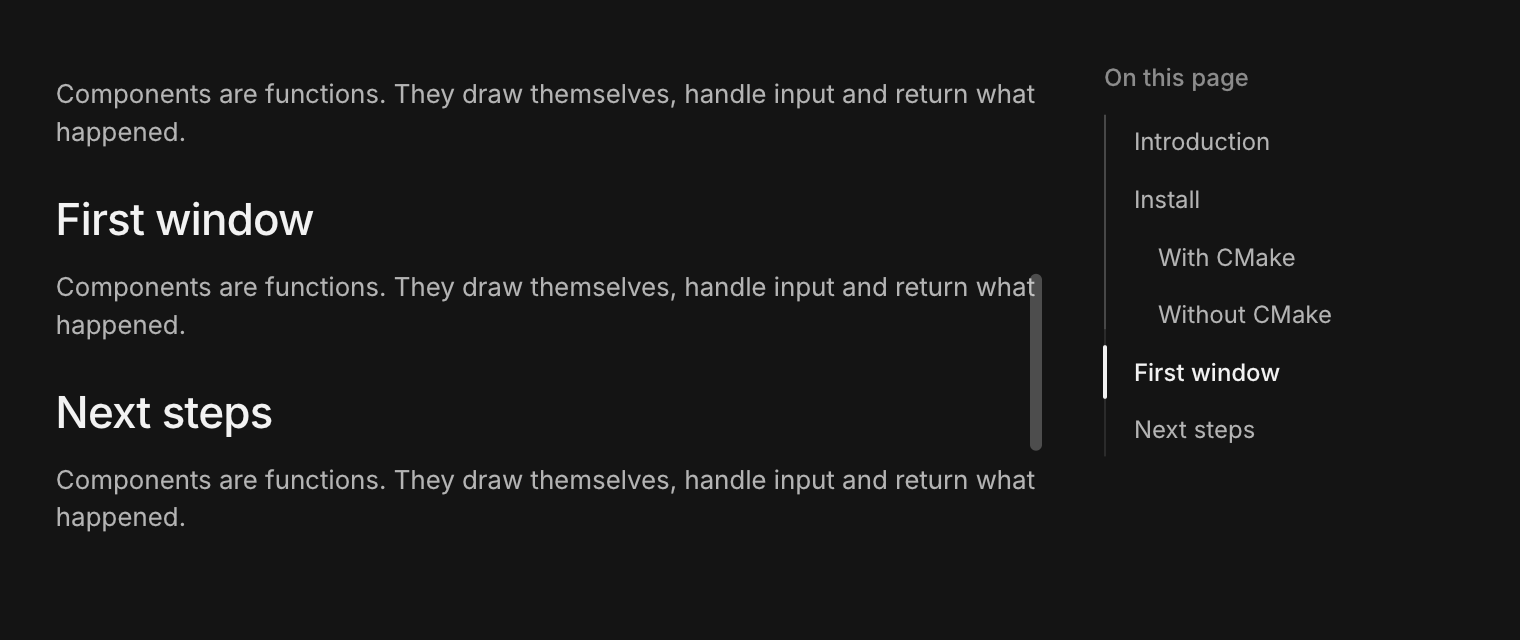
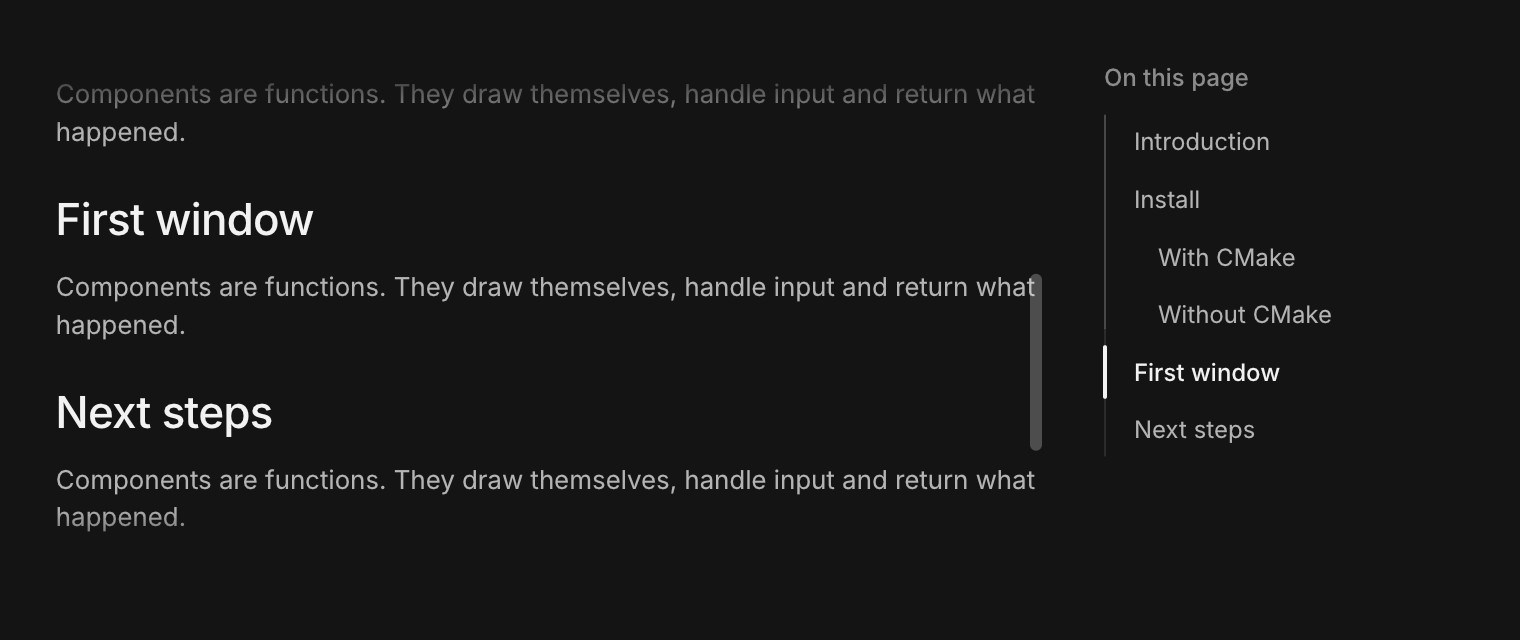
Scroll areas can fade their content out at the edges
.fade_edges on cui_scroll fades content into the backdrop at an edge with
more to scroll; the reader page and the table of contents shot use it.

Changed region(s): [[0.0309, 0.125, 0.6803, 0.1562], [0.0618, 0.8125, 0.0928, 0.8438]]

diff --git a/tests/test_main.c b/tests/test_main.c
@@ -1345,6 +1345,35 @@ static void test_atlas_pressure(void) {
     cui_destroy(ui);
 }
 
+/* scroll edge fades ------------------------------------------------------ */
+
+typedef struct { bool fade; int rows; } fade_ctx;
+static void build_fade(cui_ctx *ui, void *u) {
+    fade_ctx *f = u;
+    cui_scroll(ui, .id = "f", .height = CUI_PX(120), .width = CUI_PX(200), .fade_edges = f->fade) {
+        for (int i = 0; i < f->rows; i++) { cui_push_id_int(ui, i); cui_text(ui, "Row"); cui_pop_id(ui); }
+    }
+}
+
+static void test_scroll_fade(void) {
+    printf("scroll: edge fades only where there is more to scroll\n");
+    cui_ctx *ui = new_ctx();
+    fade_ctx f = { false, 30 };
+    run(ui, build_fade, &f, 3);
+    int plain = cui_get_draw_data(ui)->vertex_count;
+    f.fade = true;
+    run(ui, build_fade, &f, 3);
+    int faded = cui_get_draw_data(ui)->vertex_count;
+    CHECK(faded > plain);              /* a bottom fade, none at the top yet */
+    f.rows = 2;
+    run(ui, build_fade, &f, 3);
+    int short_fade = cui_get_draw_data(ui)->vertex_count;
+    f.fade = false;
+    run(ui, build_fade, &f, 3);
+    CHECK(cui_get_draw_data(ui)->vertex_count == short_fade);   /* nothing to scroll, nothing drawn */
+    cui_destroy(ui);
+}
+
 /* stress ---------------------------------------------------------------- */
 
 typedef struct { int n; } stress_ctx;
@@ -2038,6 +2067,7 @@ int main(void) {
     test_virtual_list();
     test_theme();
     test_renderer();
+    test_scroll_fade();
     test_stress();
     test_atlas_pressure();
     cui_sw_destroy(g_sw);

diff --git a/src/cui_widgets.c b/src/cui_widgets.c
@@ -1037,6 +1037,15 @@ void cui__paint_scrollbars(cui_ctx *ui, cui_node *n, cui_rect clip) {
     cui_scroll_state *st = cui_state(ui, n->id, sizeof *st);
     cui_rect r = n->rect;
     float max_y = st->content_h - r.h;
+    if (st->fade.a > 0 && max_y > 0.5f) {
+        /* each edge fades in as content moves past it */
+        float fh = CUI_MIN(36.0f, r.h * 0.2f);
+        float top = cui__clampf(st->y / fh, 0, 1), bot = cui__clampf((max_y - st->y) / fh, 0, 1);
+        cui_color clear = st->fade; clear.a = 0;
+        cui_corners rc = n->radius;
+        if (top > 0) cui_draw_rect_gradient(ui, (cui_rect){ r.x, r.y, r.w, fh }, (cui_corners){ rc.tl, rc.tr, 0, 0 }, cui_alpha(st->fade, top), clear);
+        if (bot > 0) cui_draw_rect_gradient(ui, (cui_rect){ r.x, r.y + r.h - fh, r.w, fh }, (cui_corners){ 0, 0, rc.br, rc.bl }, clear, cui_alpha(st->fade, bot));
+    }
     if (max_y > 0.5f) {
         cui_rect zone = { r.x + r.w - CUI__BAR_ZONE, r.y, CUI__BAR_ZONE, r.h };
         cui__paint_add_hit(ui, n->id ^ 0x5C5C5C5Cu, cui__rect_intersect(zone, clip), CUI_NF_INTERACTIVE);
@@ -1072,6 +1081,8 @@ void cui_scroll_begin(cui_ctx *ui, const cui_scroll_opts *o) {
     b.height = o->height.kind == CUI_SIZE_FIT ? CUI_FILL : o->height;
     b.pad = o->pad;
     b.gap = o->gap;
+    cui_scroll_state *st = cui_state(ui, id, sizeof *st);
+    st->fade = o->fade_edges ? (cui__color_set(o->fade_color) ? cui_color_of(ui, o->fade_color) : CUI_C(ui, BACKGROUND)) : cui__rgba(0, 0, 0, 0);
     cui__scroll_begin_ex(ui, id, &b, o->horizontal);
 }
 

diff --git a/examples/gallery_more.c b/examples/gallery_more.c
@@ -336,7 +336,7 @@ static void page_reader(cui_ctx *ui) {
     static const char *para = "Components are functions. They draw themselves, handle input and return what happened. Your variables are the "
                               "source of truth, so there is nothing to keep in sync, and conditional interface is just an if statement. ";
     cui_row(ui, .gap = 28, .align = CUI_ALIGN_START, .width = CUI_FILL) {
-        cui_scroll(ui, .id = "reader", .height = CUI_PX(560), .width = CUI_FILL, .gap = 14) {
+        cui_scroll(ui, .id = "reader", .height = CUI_PX(560), .width = CUI_FILL, .gap = 14, .fade_edges = true) {
             for (int k = 0; k < 8; k++) {
                 cui_toc_anchor(ui, toc[k].anchor);
                 cui_heading(ui, toc[k].title, toc[k].level ? 4 : 3);

diff --git a/tests/component_shots.c b/tests/component_shots.c
@@ -614,7 +614,7 @@ SCENE(toc) {
         { "First window", "window", 0 }, { "Next steps", "next", 0 },
     };
     cui_row(ui, .gap = 28, .align = CUI_ALIGN_START, .width = CUI_FILL) {
-        cui_scroll(ui, .id = "reader", .height = CUI_PX(260), .width = CUI_FILL, .gap = 10) {
+        cui_scroll(ui, .id = "reader", .height = CUI_PX(260), .width = CUI_FILL, .gap = 10, .fade_edges = true) {
             for (int k = 0; k < 6; k++) {
                 cui_toc_anchor(ui, toc[k].anchor);
                 cui_heading(ui, toc[k].title, toc[k].level ? 4 : 3);

diff --git a/include/cui/cui.h b/include/cui/cui.h
@@ -425,6 +425,8 @@ typedef struct cui_scroll_opts {
     cui_size width, height;
     bool horizontal;            /* also scroll horizontally */
     float pad, gap;
+    bool fade_edges;            /* content fades out at an edge with more to scroll */
+    cui_color fade_color;       /* what it fades into: the backdrop (default CUI_COLOR_BACKGROUND) */
 } cui_scroll_opts;
 CUI_API void cui_scroll_begin(cui_ctx *ui, const cui_scroll_opts *opts);
 CUI_API void cui_scroll_end(cui_ctx *ui);

diff --git a/src/cui_internal.h b/src/cui_internal.h
@@ -253,6 +253,7 @@ typedef struct cui_scroll_state {
     bool drag_y, drag_x;
     float drag_grab;
     bool hover_bar;
+    cui_color fade;             /* edge fade color, alpha 0 for none */
 } cui_scroll_state;
 
 int cui__node_new(cui_ctx *ui, cui_id id);

diff --git a/docs/layout.md b/docs/layout.md
@@ -108,6 +108,8 @@ cui_scroll(ui, .id = "messages", .gap = 8) {
 
 A scroll area fills the remaining height of its parent by default, scrolls smoothly with the wheel or trackpad, and shows a thin scrollbar while scrolling or when hovered near the edge. The thumb can be dragged. Set `.horizontal = true` to scroll both ways. Jump with `cui_scroll_to(ui, "messages", 0)`.
 
+With `.fade_edges = true` the content fades out at an edge that has more to scroll, instead of being cut off. It fades into `CUI_COLOR_BACKGROUND`; set `.fade_color` when the scroll area sits on a card or another surface.
+
 For long lists, build only what is visible:
 
 ```c
